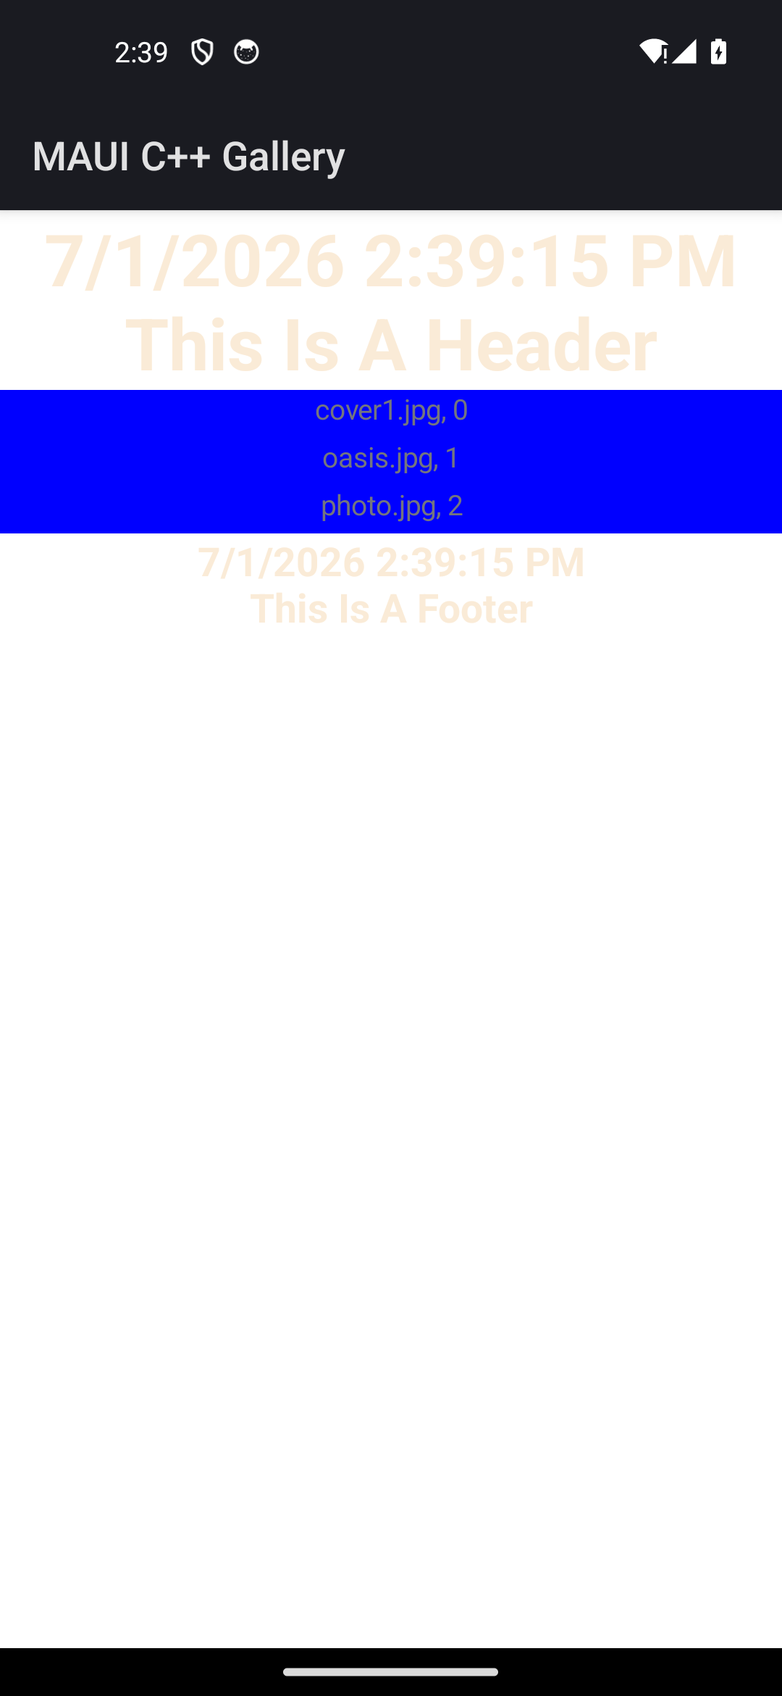
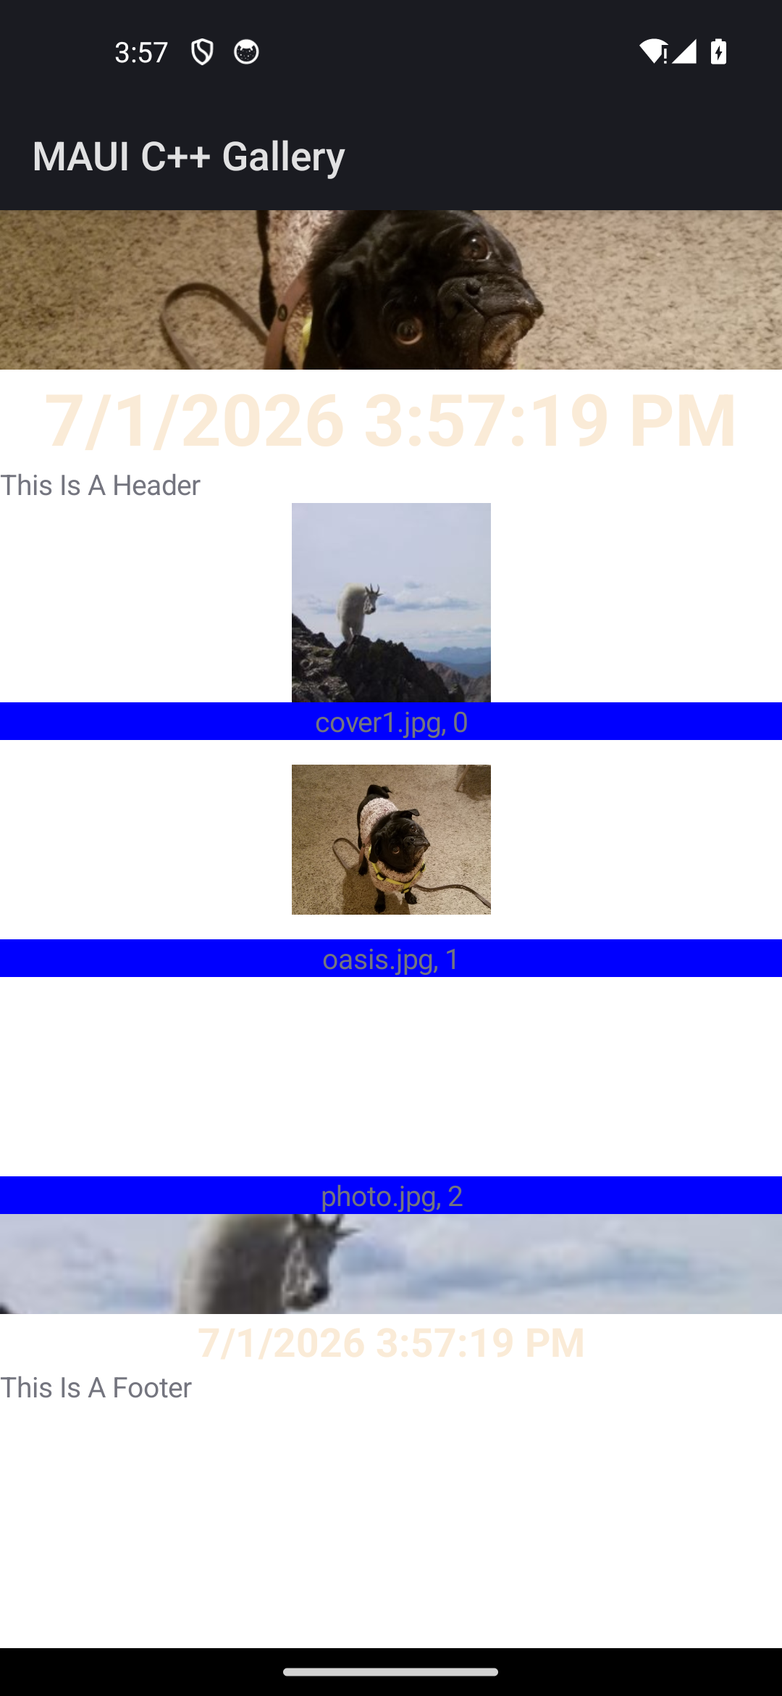
fix(android): header_footer_template renders header/footer/item images (parity RED)
The port's header/footer/item DataTemplates were reduced to text-only Labels
(the header/footer cover photo was missing; the item PhotoTemplate rendered as a
bare blue caption box instead of a photo thumbnail) — the Android parity RED. The
reduction was a headless-era 'no asset pipeline' note, but the Android image
handler decodes bundled FILE sources (oasis.jpg/cover1.jpg are packaged into the
APK assets), and the sibling header_footer_grid_horizontal already renders images
in CV chrome. Root cause: source-fidelity (the port page never built the Images),
not asset-packaging or an unhandled source type.

Fix (derived from the C# oracle: HeaderFooterTemplate.xaml + ExampleTemplates.
PhotoTemplate):
- examples/gallery: root the item template at a photo_cell and the header/footer
  templates at header_chrome_cell/footer_chrome_cell — composite vertical_stack_
  layout subclasses that OWN their Image + Label children as members (layout::add
  is non-owning, so a template cell must own its children). Each pushes the bound
  values ({Binding Image}/{Binding Caption}/{Binding CurrentTime}) on
  BindingContext change. demo_item gains the Image file name it binds. The cells'
  handlers (the shared layout_handler) are registered pre-mount via
  register_handlers — the custom_layout_page dock_layout pattern — so the
  collection_view realize path resolves of<TCell>().
- src/platform/android/collection_view_handler.cpp: realize_template_content now
[…]

diff --git a/port/cpp/examples/gallery/pages/header_footer_template_page.hpp b/port/cpp/examples/gallery/pages/header_footer_template_page.hpp
@@ -10,38 +10,52 @@
 // ItemTemplate = ExampleTemplates.PhotoTemplate() and BindingContext = a HeaderFooterDemoModel, whose
 // Items is DemoFilteredItemSource(3).Items, whose CurrentTime starts at DateTime.Now, and whose
 // TapCommand resets CurrentTime = DateTime.Now (so tapping the header/footer Image re-stamps the time
-// the Label shows, via INotifyPropertyChanged).
+// the Label shows, via INotifyPropertyChanged). ExampleTemplates.PhotoTemplate() is a two-row Grid: an
+// Image (WidthRequest=100, centered) bound to {Binding Image} above a blue-background caption Label
+// bound to {Binding Caption}.
 //
 // This is the TEMPLATE arm of the Header/Footer trio (HeaderFooterString boxes strings, this boxes
-// DataTemplates, HeaderFooterView boxes a live View): the headless collection_view handler's
-// realize_supplemental takes the `content_template` branch — it creates the template's content and sets
-// its BindingContext to the boxed Header/Footer value — exactly the C# HeaderTemplate path.
+// DataTemplates, HeaderFooterView boxes a live View): the collection_view handler's realize path takes
+// the `content_template` branch — it creates the template's content, sets its BindingContext to the
+// boxed Header/Footer value (or, per row, the item), and hosts it — exactly the C# HeaderTemplate /
+// ItemTemplate path.
 //
-// The port mirrors the shape code-first:
-//   - the Header / Footer VALUE is the model itself (`{Binding .}`): a `header_model` struct carrying
-//     the formatted CurrentTime string + the TapCommand, boxed as the Header/Footer payload. Because the
-//     port's templated cells render a single root control (data_template::of<TControl>) the template is
-//     a Label whose Text binds to the model's `current_time` (the bold AntiqueWhite {Binding CurrentTime}
-//     Label — the demonstrated bound text). The static "This Is A Header/Footer" Label and the Image are
-//     documented below (see note);
-//   - the item template is the PhotoTemplate caption Label (Text bound to each row's caption);
+// The port mirrors the shape code-first. The KEY fidelity point (this file's reason to exist): MAUI's
+// header/footer/item templates each render an IMAGE (the header/footer cover photo, the per-row photo
+// thumbnail). A `data_template::of<TLeaf>()` cell renders ONE leaf control, so the earlier port reduced
+// every template to a single text Label and the images were MISSING (the header/footer cover photo was
+// text-only; the item's photo thumbnail was a bare blue caption box — the Android parity red). The port's
+// templated cells CAN root a container that OWNS its children: the sibling nested_collection roots its
+// cell at a collection_view, and custom_layout_page registers a user layout subclass via register_handlers.
+// This page follows both: the three templates root purpose-built COMPOSITE view subclasses that own their
+// Image + Label children as members (so the children outlive the realized cell — layout::add is
+// non-owning) and push the bound values on BindingContext change. Each composite's handler is the shared
+// layout_handler, registered pre-mount via register_handlers (the custom_layout_page dock_layout pattern),
+// so the collection_view realize path resolves it for of<TComposite>() and the images render like MAUI.
+//
+//   - the header / footer VALUE is the model itself (`{Binding .}`): a `header_model` struct carrying the
+//     formatted CurrentTime string, boxed as the Header/Footer payload. The header/footer TEMPLATE is a
+//     `chrome_cell` (a vertical_stack_layout subclass) that owns the cover-photo Image (oasis.jpg for the
+//     header, cover1.jpg for the footer — the XAML Image.Source), the bold AntiqueWhite {Binding
+//     CurrentTime} Label, and the static "This Is A Header/Footer" Label; on BindingContext change it pushes
+//     the model's current_time into the bound Label;
+//   - the item TEMPLATE is a `photo_cell` (a vertical_stack_layout subclass) that owns the per-row Image
+//     (source = the row's Image name, bound {Binding Image}) above the blue-background caption Label (bound
+//     {Binding Caption}) — ExampleTemplates.PhotoTemplate() faithfully;
 //   - the TapCommand is a live maui::controls::command that re-stamps the time and re-realizes the
 //     Header/Footer (tap_header()/tap_footer() are the page-level synthetic-dispatch stand-in for the C#
 //     Image's TapGestureRecognizer firing the bound command — the gesture itself is wired on the model's
 //     command, see note).
 //
 // The page OWNS its whole element tree; the generic mount (app_host.hpp) attaches every owned view's
-// handler and hosts the tree.
+// handler and hosts the tree. The composite cells are realized on demand by the collection_view handler.
 //
-// note: the C# templates root a Grid holding three things the port reduces:
-//       (1) the {Binding CurrentTime} Label — PORTED as the template's bound Label (the live text);
-//       (2) a static "This Is A Header/Footer" Label — the port folds its intent into the title/time
-//           text since a single-root templated cell renders one control;
-//       (3) an Image with a TapGestureRecognizer Command="{Binding TapCommand}" — the headless backend
-//           has no asset pipeline for the image and no per-instance gesture-realization seam inside a
-//           templated cell, so the TapCommand is exposed + exercised at the page level (tap_header /
-//           tap_footer run the SAME bound command, re-stamping CurrentTime and re-realizing the chrome).
-//       The item PhotoTemplate is the caption Label only (no per-row Image), as in the sibling demos.
+// note: the C# Image carries a TapGestureRecognizer Command="{Binding TapCommand}". The per-instance
+//       gesture-realization seam inside a templated cell is not modeled, so the TapCommand is exposed +
+//       exercised at the page level (tap_header / tap_footer run the SAME bound command, re-stamping
+//       CurrentTime and re-realizing the chrome). The C# header Grid OVERLAYS the CurrentTime Label on the
+//       Image (both in Grid row 0); the port's single-axis stack renders the Image above the labels, which
+//       matches MAUI's visible frame (the cover-photo band with the caption below it).
 
 #include <chrono>
 #include <cstdio>
@@ -52,37 +66,155 @@
 
 #include "maui/controls/command.hpp"
 #include "maui/controls/content_page.hpp"
+#include "maui/controls/file_image_source.hpp"
+#include "maui/controls/image.hpp"
 #include "maui/controls/items/boxed_item.hpp"
 #include "maui/controls/items/collection_view.hpp"
 #include "maui/controls/label.hpp"
 #include "maui/controls/templates/data_template.hpp"
+#include "maui/controls/vertical_stack_layout.hpp"
+#include "maui/core/aspect.hpp"
 #include "maui/core/font.hpp"
+#include "maui/core/handler_registry.hpp"
+#include "maui/core/layout_alignment.hpp"
+#include "maui/core/layout_handler.hpp"
 #include "maui/core/observable_collection.hpp"
 #include "maui/core/text_alignment.hpp"
 #include "maui/graphics/colors.hpp"
 #include "maui/graphics/solid_paint.hpp"
+#include "maui/hosting/maui_app.hpp"
 
 namespace maui::samples
 {
+    // One row of the demo source. CollectionViewGalleryTestItem reduced to what the PhotoTemplate binds:
+    // Caption (the blue Label — `"{image}, {n}"`) and Image (the per-row photo file name, {Binding Image}).
+    struct header_footer_demo_item
+    {
+        std::string caption;
+        std::string image_name;
+        friend bool operator==(const header_footer_demo_item&, const header_footer_demo_item&) = default;
+    };
+
+    // HeaderFooterDemoModel as the port's reflection-free Header/Footer BindingContext (`{Binding .}`): the
+    // formatted CurrentTime the chrome template's Label binds (`{Binding CurrentTime}`).
+    struct header_footer_model
+    {
+        std::string current_time;
+        friend bool operator==(const header_footer_model&, const header_footer_model&) = default;
+    };
+
+    // ---- the item template root: ExampleTemplates.PhotoTemplate() (Image over a blue caption Label) ----
+    // A vertical_stack_layout subclass that OWNS its Image + caption Label children as members (layout::add
+    // is non-owning, so a template cell must own the children it hosts). The Image's Source is the row's
+    // {Binding Image} and the Label's Text is {Binding Caption}, both pushed on BindingContext change (the
+    // realize path sets the cell's context to the header_footer_demo_item). Default-constructible so a
+    // data_template::of<photo_cell>() activates it; its handler is the shared layout_handler (registered in
+    // register_handlers), matching MAUI's PhotoTemplate cell.
+    class photo_cell : public maui::controls::vertical_stack_layout
+    {
+    public:
+        photo_cell()
+        {
+            set_spacing(0);
+            // Image (WidthRequest=100, centered) — ExampleTemplates.PhotoTemplate's image.
+            image_.set_width_request(100);
+            image_.set_height_request(100);
+            image_.set_aspect(maui::core::aspect::aspect_fit);
+            image_.set_horizontal_layout_alignment(maui::core::layout_alignment::center);
+            // The blue-background caption Label (BackgroundColor=Blue, centered) bound to {Binding Caption}.
+            caption_.set_horizontal_text_alignment(maui::core::text_alignment::center);
+            caption_.set_background(std::static_pointer_cast<maui::graphics::paint>(
+                std::make_shared<maui::graphics::solid_paint>(maui::graphics::colors::blue)));
+            add(image_);
+            add(caption_);
+        }
+
+    protected:
+        // Push {Binding Image} → Image.Source and {Binding Caption} → Label.Text when the cell's
+        // BindingContext (the header_footer_demo_item) is set by the realize path.
+        void on_binding_context_changed() override
+        {
+            maui::controls::vertical_stack_layout::on_binding_context_changed(); // propagate to children first
+            if (const auto item = binding_context<header_footer_demo_item>())
+            {
+                caption_.set_text(item->caption);
+                image_.set_source(maui::controls::image_source::from_file(item->image_name));
+            }
+        }
+
+    private:
+        maui::controls::image image_;
+        maui::controls::label caption_;
+    };
+
+    // ---- the header/footer template root: the two-row Grid (Image + {Binding CurrentTime} + static) ----
+    // A vertical_stack_layout subclass owning the cover-photo Image, the bold AntiqueWhite {Binding
+    // CurrentTime} Label, and the static "This Is A Header/Footer" Label. The image file, font size, and
+    // static caption differ between header and footer, but a data_template::of<T>() default-constructs the
+    // root — so those differences are baked into two concrete subclasses (header_chrome_cell /
+    // footer_chrome_cell) via a shared base whose ctor takes them.
+    class chrome_cell : public maui::controls::vertical_stack_layout
+    {
+    public:
+        chrome_cell(std::string image_file, double time_font_size, double image_height, std::string static_caption)
+        {
+            set_spacing(0);
+            image_.set_source(maui::controls::image_source::from_file(std::move(image_file)));
+            image_.set_aspect(maui::core::aspect::aspect_fill); // XAML Aspect="AspectFill"
+            image_.set_height_request(image_height);            // header 80 / footer 50 (XAML HeightRequest)
+            // The bold AntiqueWhite centered {Binding CurrentTime} Label.
+            time_.set_text_color(maui::graphics::colors::antique_white);
+            time_.set_horizontal_text_alignment(maui::core::text_alignment::center);
+            time_.set_font(maui::core::font::system_font_of_size(time_font_size, maui::core::font_weight::bold));
+            // The static "This Is A Header/Footer" Label (Grid.Row=1 in the XAML).
+            static_.set_text(std::move(static_caption));
+            add(image_);
+            add(time_);
+            add(static_);
+        }
+
+    protected:
+        // Push {Binding CurrentTime} → the bound time Label when the cell's BindingContext (the
+        // header_footer_model) is set by the realize path.
+        void on_binding_context_changed() override
+        {
+            maui::controls::vertical_stack_layout::on_binding_context_changed();
+            if (const auto model = binding_context<header_footer_model>())
+            {
+                time_.set_text(model->current_time);
+            }
+        }
+
+    private:
+        maui::controls::image image_;
+        maui::controls::label time_;
+        maui::controls::label static_;
+    };
+
+    // Header cover photo = oasis.jpg, HeightRequest=80, CurrentTime FontSize=36, "This Is A Header".
+    class header_chrome_cell : public chrome_cell
+    {
+    public:
+        header_chrome_cell() : chrome_cell("oasis.jpg", 36, 80, "This Is A Header")
+        {
+        }
+    };
+
+    // Footer cover photo = cover1.jpg, HeightRequest=50, CurrentTime FontSize=20, "This Is A Footer".
+    class footer_chrome_cell : public chrome_cell
+    {
+    public:
+        footer_chrome_cell() : chrome_cell("cover1.jpg", 20, 50, "This Is A Footer")
+        {
+        }
+    };
+
     class header_footer_template_page
     {
     public:
-        // One row of the demo source — the caption the PhotoTemplate binds.
-        struct demo_item
-        {
-            std::string caption;
-        };
-
-        // HeaderFooterDemoModel as the port's reflection-free Header/Footer BindingContext (`{Binding .}`):
-        // the formatted CurrentTime the templates' Label binds (`{Binding CurrentTime}`). The TapCommand
-        // lives on the page (it must mutate this value + re-realize), so the struct itself carries only the
-        // bound display string — copied into the boxed_item, value-typed (the data_template binds
-        // <std::string, header_model>).
-        struct header_model
-        {
-            std::string current_time;
-            friend bool operator==(const header_model&, const header_model&) = default;
-        };
+        // Kept as public aliases so any host / test referencing the old names still resolves.
+        using demo_item = header_footer_demo_item;
+        using header_model = header_footer_model;
 
         header_footer_template_page()
             : items_(std::make_shared<maui::core::observable_collection<demo_item>>(seed_items())),
@@ -93,27 +225,15 @@ namespace maui::samples
         {
             page_.set_title("Header/Footer (template)");
 
-            // The PhotoTemplate caption Label: Text binds to the item's caption (C# Binding("Caption")),
-            // styled as the C# PhotoTemplate's blue caption (a blue background paint, centered text).
-            auto cell = maui::controls::data_template::of<maui::controls::label>();
-            cell->set_binding<std::string, demo_item>(maui::controls::label::text_property(),
-                                                      [](const demo_item& item) { return item.caption; });
-            cell->set_value(maui::controls::background_property(),
-                            std::static_pointer_cast<maui::graphics::paint>(
-                                std::make_shared<maui::graphics::solid_paint>(maui::graphics::colors::blue)));
-            cell->set_value(maui::controls::label::horizontal_text_alignment_property(),
-                            maui::core::text_alignment::center);
-            list_.set_item_template(cell);
+            // The item template: ExampleTemplates.PhotoTemplate() — a photo_cell (Image over blue caption).
+            list_.set_item_template(maui::controls::data_template::of<photo_cell>());
             list_.set_items_source(items_);
 
-            // ---- the HeaderTemplate / FooterTemplate: a bold AntiqueWhite centered Label bound to the
-            // model's CurrentTime (the {Binding CurrentTime} Label, the live bound text), with the static
-            // "This Is A Header/Footer" Label folded onto the bound time (a single-root cell renders one
-            // control, so the static caption is appended on a second line of the same Label) ----
-            list_.set_header_template(make_time_template(36, "\nThis Is A Header")); // header Label FontSize=36
-            list_.set_footer_template(make_time_template(20, "\nThis Is A Footer")); // footer Label FontSize=20
+            // The HeaderTemplate / FooterTemplate: the cover-photo chrome cells (Image + bound time + static).
+            list_.set_header_template(maui::controls::data_template::of<header_chrome_cell>());
+            list_.set_footer_template(maui::controls::data_template::of<footer_chrome_cell>());
 
-            // ---- the Header / Footer VALUE = the model itself (`{Binding .}`) ----
+            // The Header / Footer VALUE = the model itself (`{Binding .}`).
             list_.set_header(maui::controls::boxed_item::of(model_));
             list_.set_footer(maui::controls::boxed_item::of(model_));
 
@@ -123,6 +243,20 @@ namespace maui::samples
         [[nodiscard]] maui::controls::content_page& page()
         {
             return page_;
+        }
+
+        // PRE-MOUNT hook (gallery_host.hpp gallery_pre_mount): register the composite cell subclasses'
+        // handlers BEFORE the generic mount / collection_view realize walks the tree. photo_cell /
+        // header_chrome_cell / footer_chrome_cell are brand-new user types (like custom_layout_page's
+        // dock_layout), so their handler isn't self-registered; the collection_view realize path resolves a
+        // template's handler via THIS app's per-app handler_registry (of<TCell>() → create_handler by the
+        // cell's type_tag), so without this the cells would fall back to the text mirror and the images would
+        // be missing again. All three share the layout_handler (they are vertical_stack_layout subclasses).
+        void register_handlers(maui::hosting::maui_app& app)
+        {
+            maui::core::register_handler<photo_cell, maui::core::layout_handler>(app.handlers());
+            maui::core::register_handler<header_chrome_cell, maui::core::layout_handler>(app.handlers());
+            maui::core::register_handler<footer_chrome_cell, maui::core::layout_handler>(app.handlers());
         }
 
         // The owned controls, exposed for the hosting main's bottom-up handler attachment / tests.
@@ -157,15 +291,16 @@ namespace maui::samples
         }
 
     private:
-        // DemoFilteredItemSource(3).AddItems: three rows, captioned "<image>, <n>" off the image ring.
+        // DemoFilteredItemSource(3).AddItems: three rows, captioned "<image>, <n>" off the image ring, each
+        // carrying its Image file name (the {Binding Image} the PhotoTemplate's Image resolves).
         [[nodiscard]] static std::vector<demo_item> seed_items()
         {
             static const std::vector<std::string> images{"cover1.jpg", "oasis.jpg", "photo.jpg"};
             std::vector<demo_item> rows;
             for (int n = 0; n < 3; ++n)
             {
-                rows.push_back(
-                    demo_item{images[static_cast<std::size_t>(n) % images.size()] + ", " + std::to_string(n)});
+                const std::string& image = images[static_cast<std::size_t>(n) % images.size()];
+                rows.push_back(demo_item{.caption = image + ", " + std::to_string(n), .image_name = image});
             }
             return rows;
         }
@@ -197,32 +332,13 @@ namespace maui::samples
         }
 
         // TapCommand => CurrentTime = DateTime.Now: re-stamp the model's time and re-realize the chrome
-        // (the headless analog of INotifyPropertyChanged re-pushing {Binding CurrentTime} — re-setting the
-        // boxed Header/Footer value re-runs realize_supplemental against the fresh model).
+        // (the analog of INotifyPropertyChanged re-pushing {Binding CurrentTime} — re-setting the boxed
+        // Header/Footer value re-runs the realize path against the fresh model).
         void restamp_time()
         {
             model_.current_time = now_string();
             list_.set_header(maui::controls::boxed_item::of(model_));
             list_.set_footer(maui::controls::boxed_item::of(model_));
-        }
-
-        // A HeaderTemplate/FooterTemplate: a bold AntiqueWhite centered Label whose Text binds to the
-        // model's CurrentTime ({Binding CurrentTime}), at the given font size (header 36 / footer 20), with
-        // the static "This Is A Header/Footer" caption appended (`static_suffix`) so the C# template's static
-        // Label content surfaces in the single-root cell.
-        [[nodiscard]] static std::shared_ptr<maui::controls::data_template> make_time_template(
-            double font_size, std::string static_suffix)
-        {
-            auto tmpl = maui::controls::data_template::of<maui::controls::label>();
-            tmpl->set_binding<std::string, header_model>(
-                maui::controls::label::text_property(),
-                [suffix = std::move(static_suffix)](const header_model& m) { return m.current_time + suffix; });
-            tmpl->set_value(maui::controls::label::text_color_property(), maui::graphics::colors::antique_white);
-            tmpl->set_value(maui::controls::label::horizontal_text_alignment_property(),
-                            maui::core::text_alignment::center);
-            tmpl->set_value(maui::controls::label::font_property(),
-                            maui::core::font::system_font_of_size(font_size, maui::core::font_weight::bold));
-            return tmpl;
         }
 
         std::shared_ptr<maui::core::observable_collection<demo_item>> items_; // publisher before the list (§8)

diff --git a/port/cpp/src/platform/android/collection_view_handler.cpp b/port/cpp/src/platform/android/collection_view_handler.cpp
@@ -504,6 +504,15 @@ namespace maui::controls
             return candidate;
         }
 
+        // Forward declaration: recursively mount a boxed VIEW / template-content subtree (defined below).
+        // realize_template_content calls it so a template whose ROOT is a CONTAINER (a photo_cell /
+        // chrome_cell stack owning Image + Label children — header_footer_template) hosts those children:
+        // set_handler on the root alone attaches only the root's handler, leaving the children's native views
+        // unbuilt (the layout_handler's panel then has nothing to host). ensure_mounted walks the realized
+        // subtree post-order, attaches each descendant's handler, and re-fires the container host command —
+        // the same on-demand mount the boxed-VIEW header/footer path already uses.
+        void ensure_mounted(maui::core::i_maui_context* context, maui::controls::element& root);
+
         // Realize a type-activated template's content into a native android.view.View (the C#
         // TemplatedCell.Bind: CreateContent → set BindingContext → ToPlatform(mauiContext)). Returns the
         // realized content (which OWNS its attached handler + native view — the caller keeps it alive for as
@@ -538,6 +547,16 @@ namespace maui::controls
             }
             child_handler->set_maui_context(context);
             element->set_handler(child_handler); // creates the platform view + runs the mapper
+
+            // If the realized ROOT is a CONTAINER that owns children (a header_footer_template photo_cell /
+            // chrome_cell stack of Image + Label), set_handler attached only the ROOT's handler — its children
+            // have no native view yet, so the layout_handler's panel hosts nothing. Mount the subtree so each
+            // child's handler is attached and re-hosted (the boxed-VIEW header/footer path's on-demand mount).
+            // A single-leaf template root (of<label>()) has no logical children, so this is a no-op there.
+            if (auto* chrome = dynamic_cast<maui::controls::element*>(content.get()); chrome != nullptr)
+            {
+                ensure_mounted(context, *chrome);
+            }
 
             if (auto* view_handler = dynamic_cast<maui::core::i_view_handler*>(child_handler.get()))
             {
